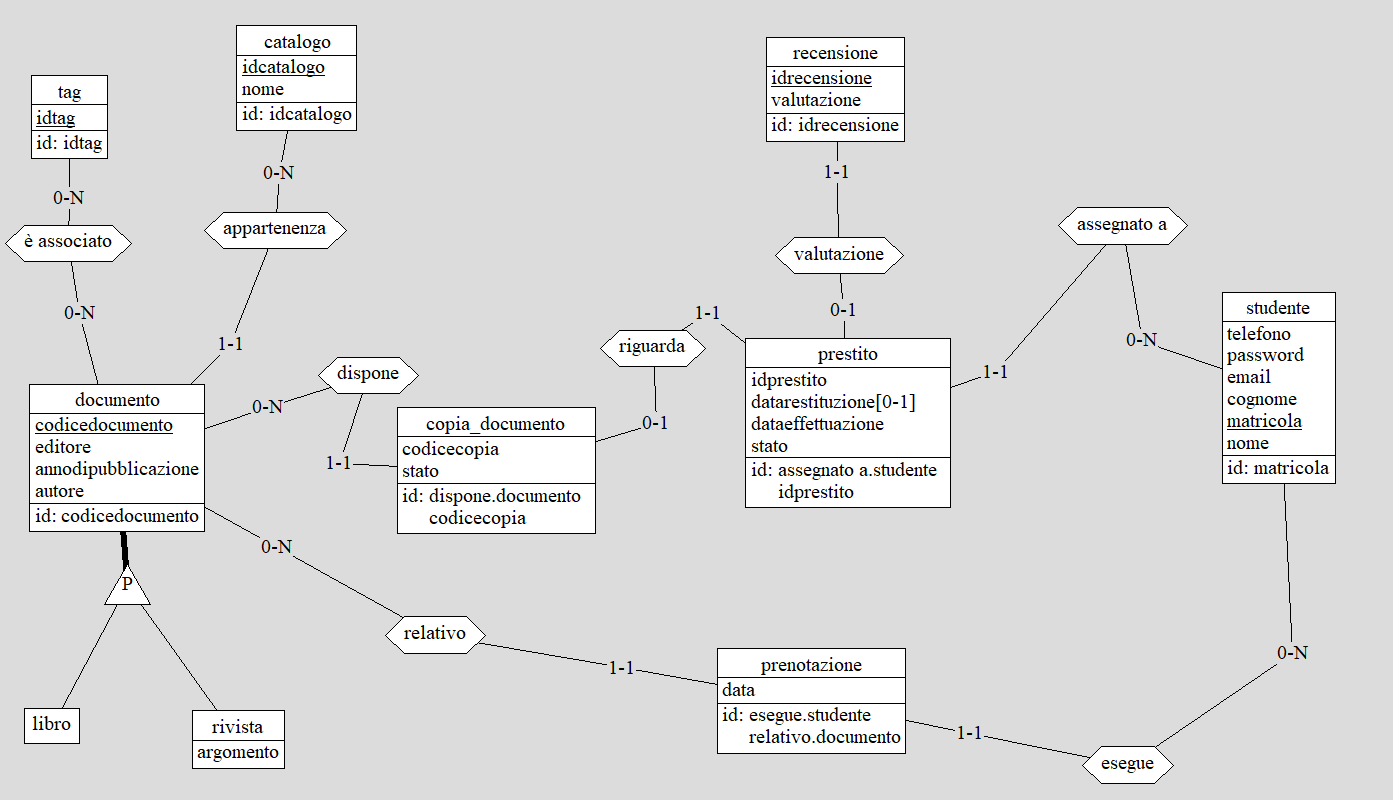
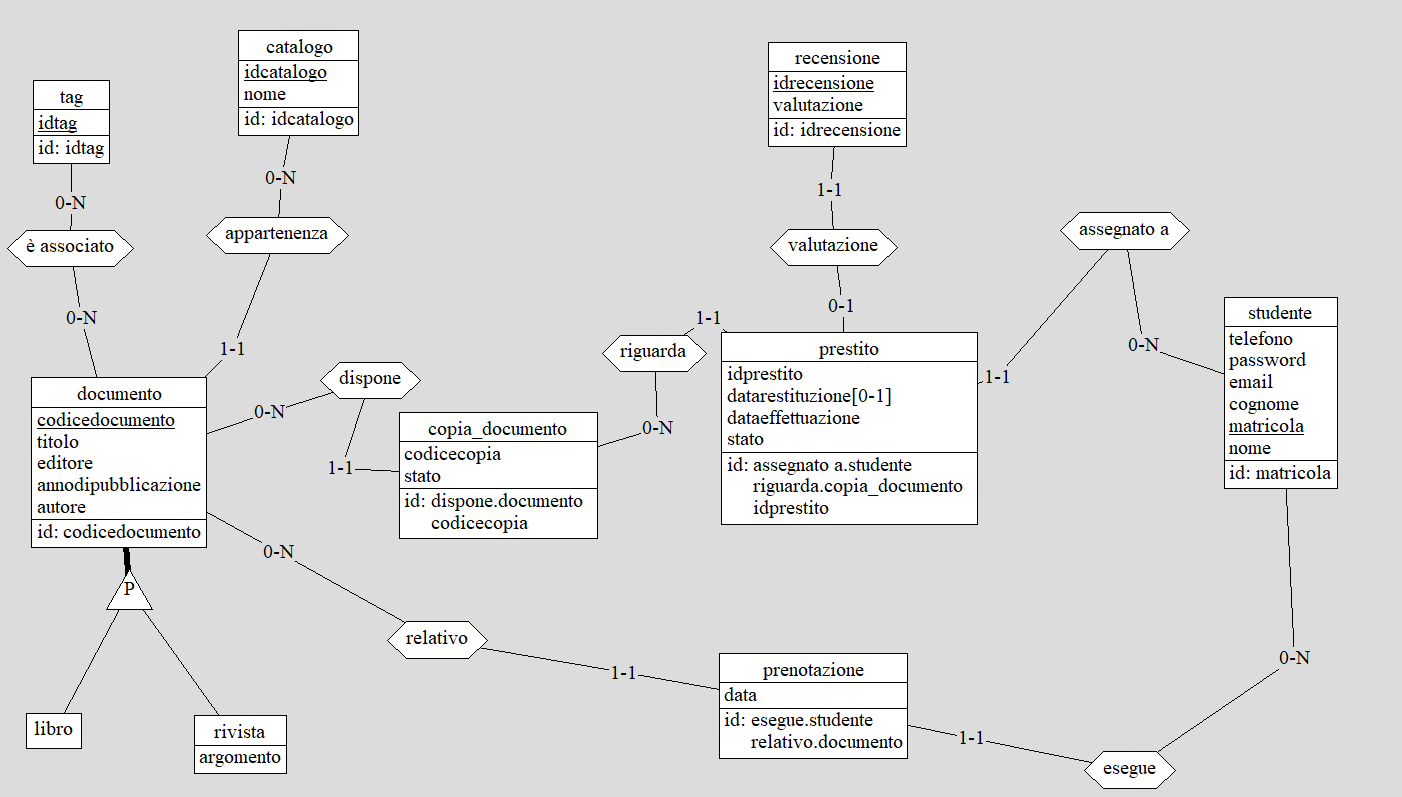
add: database creation in mysql

diff --git a/doc/README.md b/doc/README.md
@@ -2,11 +2,12 @@
 
 ## Funzionalità
 
-- Ricerca di un documento in base al libro
+- Ricerca di un documento in base al autore, titolo, editore, ...
 - Ricerca del documento in base al tag
 - Possibilità di registrarsi e modificare il profilo
   - matricola come identificatore
   - il resto è modificabile (credo) -> utente(idmatricola, nome, cognome, email, immagineprofilo, telefono)
+  - password registrata con hashing e decryption fatto al momento del controllo
 - info point(FAQ) per la gestione delle prenotazioni e prestiti -> unibo
 - Ricerca del documento per catalogo (catalogo registrato nel momento dell'inserimento)
 - Possibilità di recensire un documento una volta restituito
@@ -16,7 +17,7 @@
   - eliminare
   - modificare -> cambiare catalogo di appartenenza, numero di copie disponibili (?), ...
 - Workflow della creazione del prestito:
-  1. l'utente esegue la prenotazione in una determinata data, mettendosi in coda
+  1. l'utente esegue la prenotazione in una determinata data, mettendosi in coda, registrandosi una sola volta
   2. l'amministratore avrà la possibilità di vedere chi è in coda e accettare la prenotazione dei primi della coda
   3. l'amministratore crea il prestito cancellando la prenotazione dalla coda
   4. poi si esegue la logica della gestione della restituzione.
